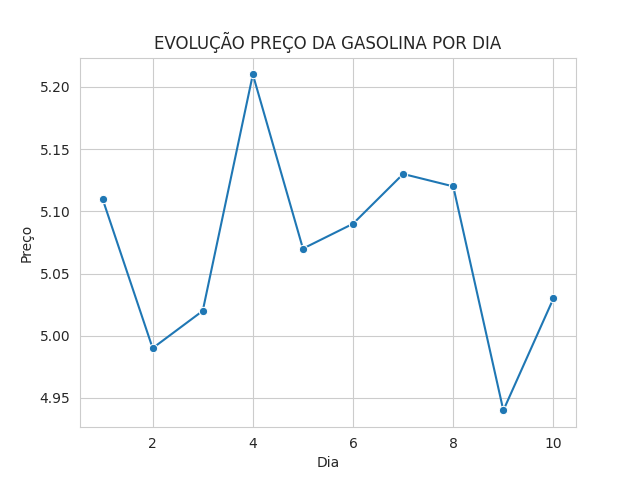
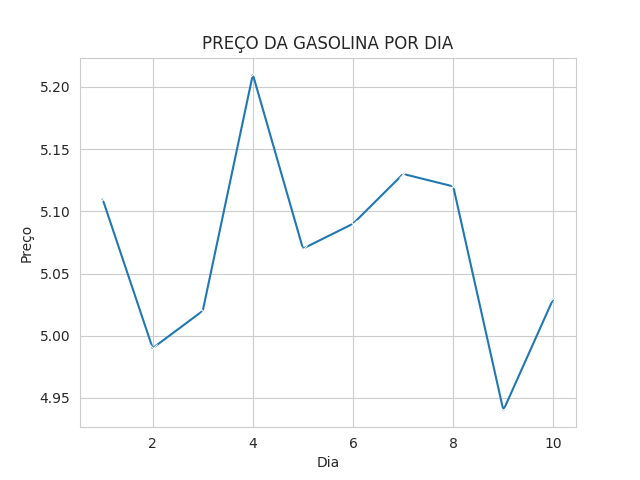
Dados do script para gerar o gráfico atualizados

diff --git a/gasolina.py b/gasolina.py
@@ -4,7 +4,7 @@ import seaborn as sns
 df = pd.read_csv('gasolina.csv')
 
 with sns.axes_style('whitegrid'):
-  grafico = sns.lineplot(data=df, x='dia', y='venda', marker='o')
-  grafico.set(title='EVOLUÇÃO PREÇO DA GASOLINA POR DIA', xlabel='Dia', ylabel='Preço')
+  grafico = sns.lineplot(data=df, x='dia', y='preço', marker='x')
+  grafico.set(title='PREÇO DA GASOLINA POR DIA', xlabel='Dia', ylabel='Preço')
 
 grafico.figure.savefig('gasolina.png')
